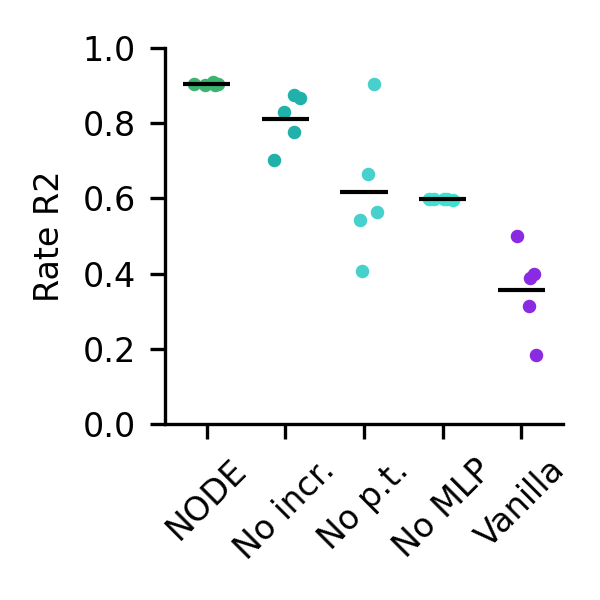
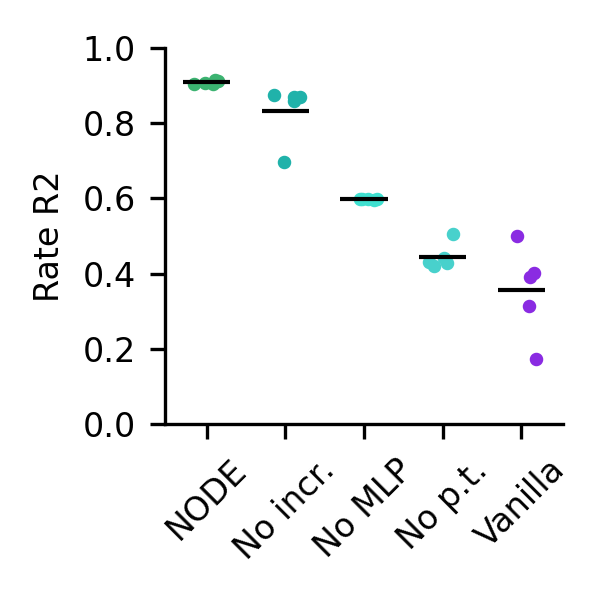
Add updated model configurations and results

diff --git a/scripts/training/train_macarthur.py b/scripts/training/train_macarthur.py
@@ -1,0 +1,57 @@
+import shutil
+import sys
+from datetime import datetime
+from pathlib import Path
+
+import ray
+from ray import tune
+from ray.tune import CLIReporter
+from ray.tune.schedulers import FIFOScheduler
+from ray.tune.search.basic_variant import BasicVariantGenerator
+
+from paper_src.train import train
+
+# ---------- OPTIONS -----------
+LOCAL_MODE = False
+OVERWRITE = False
+RUN_TAG = datetime.now().strftime("%Y%m%d") + "_macarthur100"
+RUNS_HOME = Path("../../runs/user_runs")
+RUN_DIR = RUNS_HOME / "multi" / RUN_TAG
+CONFIG_PATH = Path("../configs/multi.yaml")
+# ------------------------------
+
+# Initialize the `ray` server in local mode if necessary
+if LOCAL_MODE:
+    ray.init(local_mode=True)
+# Overwrite the directory if necessary
+if RUN_DIR.exists() and OVERWRITE:
+    shutil.rmtree(RUN_DIR)
+RUN_DIR.mkdir(parents=True, exist_ok=True)
+# Copy this script into the run directory
+shutil.copyfile(__file__, RUN_DIR / Path(__file__).name)
+# Run the hyperparameter search
+tune.run(
+    tune.with_parameters(
+        train,
+        config_path=CONFIG_PATH,
+    ),
+    metric="loss",
+    mode="min",
+    name=RUN_DIR.name,
+    config={
+        "datamodule": "macarthur100",
+        "model": tune.grid_search(["gru", "node-discrete"]),
+        "model.latent_size": tune.grid_search([2, 3, 5, 10, 25, 50, 100]),
+        "seed": tune.grid_search([0, 1, 2, 3, 4]),
+    },
+    resources_per_trial=dict(cpu=2, gpu=0.3),
+    num_samples=1,
+    local_dir=RUN_DIR.parent,
+    search_alg=BasicVariantGenerator(random_state=0),
+    scheduler=FIFOScheduler(),
+    verbose=1,
+    progress_reporter=CLIReporter(
+        metric_columns=["r2_latent", "r2_observ", "loss", "training_iteration"],
+        sort_by_metric=True,
+    ),
+)

diff --git a/paper_src/models.py b/paper_src/models.py
@@ -145,18 +145,19 @@ class RNNLatentSAE(AbstractLatentSAE):
 class NODELatentSAE(AbstractLatentSAE):
     def __init__(
         self,
-        vf_hidden_size: int,
+        mlp_hidden_dims: list[int],
         **kwargs,
     ):
         super().__init__(**kwargs)
         self.save_hyperparameters()
         latent_size = self.hparams.latent_size
         # Define the vector field
-        vector_field = nn.Sequential(
-            nn.Linear(latent_size, vf_hidden_size),
-            nn.Tanh(),
-            nn.Linear(vf_hidden_size, latent_size),
-        )
+        layers = []
+        layer_in_dim = latent_size
+        for layer_out_dim in mlp_hidden_dims:
+            layers.extend([nn.Linear(layer_in_dim, layer_out_dim), nn.Tanh()])
+            layer_in_dim = layer_out_dim
+        vector_field = nn.Sequential(*layers, nn.Linear(layer_in_dim, latent_size))
         # Define the NeuralODE decoder and readout network
         self.decoder = NeuralODE(vector_field)
 
@@ -187,9 +188,9 @@ class AblatedNODECell(nn.RNNCell):
             layers = []
             layer_in_dim = hidden_size + input_size
             for layer_out_dim in mlp_hidden_dims:
-                layers.extend([nn.Linear(layer_in_dim, layer_out_dim), nn.ReLU()])
+                layers.extend([nn.Linear(layer_in_dim, layer_out_dim), nn.Tanh()])
                 layer_in_dim = layer_out_dim
-            self.mlp = nn.Sequential(*layers, nn.Linear(layer_in_dim, hidden_size))            
+            self.mlp = nn.Sequential(*layers, nn.Linear(layer_in_dim, hidden_size))
 
     def forward(self, input, hidden):
         if hasattr(self, "mlp"):

diff --git a/scripts/analysis/5_plot_ablation.py b/scripts/analysis/5_plot_ablation.py
@@ -19,8 +19,8 @@ def get_results(multirun_dir):
         try:
             # Load the metrics
             metrics = pd.read_csv(dirpath / "metrics.csv")
-            # Get last 500 epochs of validation metrics and remove "valid" from name
-            metrics = metrics[metrics.epoch > metrics.epoch.max() - 500]
+            # Get last 100 epochs of validation metrics and remove "valid" from name
+            metrics = metrics[metrics.epoch > metrics.epoch.max() - 100]
             metrics = metrics[[col for col in metrics if "valid" in col]].dropna()
             metrics = metrics.rename(
                 {col: col.replace("valid/", "") for col in metrics}, axis=1
@@ -42,15 +42,15 @@ def get_results(multirun_dir):
 if __name__ == "__main__":
 
     RUNS_HOME = Path("../../runs")
-    SUBFOLDER = "user_runs/multi/20230201_ablation"
+    SUBFOLDER = "ablation"
 
     results = get_results(RUNS_HOME / SUBFOLDER)
     rng = np.random.default_rng(42)
     order = [
         ("ablation0_baseline", "NODE", "mediumseagreen"),
         ("ablation3_rm-gradual", "No incr.", "lightseagreen"),
-        ("ablation1_rm-pass", "No p.t.", "mediumturquoise"),
         ("ablation2_rm-mlp", "No MLP", "turquoise"),
+        ("ablation1_rm-pass", "No p.t.", "mediumturquoise"),
         ("ablation4_vanilla", "Vanilla", "blueviolet"),
     ]
     fig, ax = plt.subplots(figsize=(2, 2))

diff --git a/scripts/analysis/2_plot_metrics.py b/scripts/analysis/2_plot_metrics.py
@@ -47,6 +47,7 @@ if __name__ == "__main__":
         "Lorenz": (("gru_lorenz", "node_lorenz"), 3),
         "Arneodo100": (("arneodo100",), 3),
         "MackeyGlass100": (("mackeyglass100",), 10),
+        "MacArthur100": (("macarthur100", ), 10),
     }
 
     for sys_name, (subfolder, true_dim) in SUBFOLDER_MAP.items():
@@ -60,6 +61,7 @@ if __name__ == "__main__":
             results = pd.concat([gru_results, node_results])
         else:
             results = get_results(RUNS_HOME / subfolder[0])
+            results["model"] = results["model"].str.replace("-discrete", "")
             results["model"] = results["model"].str.upper()
         # Fill for runs that used the default seed
         results = results.fillna({"seed": 0})

diff --git a/paper_src/data.py b/paper_src/data.py
@@ -55,7 +55,7 @@ class ChaoticDataModule(pl.LightningDataModule):
             resample=True,
             pts_per_period=hps.pts_per_period,
             return_times=True,
-            standardize=False,
+            standardize=self.model.name in ["MacArthur"],
         )
         # Project into observation space
         latent_dim = self.model.embedding_dimension
